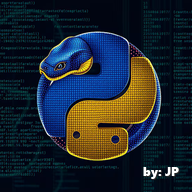
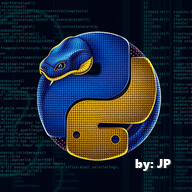
Move watermark further inside the iOS safe zone
The 'by: JP' text at 7% edge inset was getting clipped by iOS's
~22% corner mask at the smaller home-screen render sizes. Bump
inset to 11% so the watermark stays fully visible on all variants.

Changed region(s): [[0.6875, 0.8125, 0.9375, 0.9375]]

diff --git a/scripts/generate_pwa_icons.py b/scripts/generate_pwa_icons.py
@@ -63,9 +63,11 @@ def _add_watermark(img: Image.Image) -> None:
     tw = bbox[2] - bbox[0]
     th = bbox[3] - bbox[1]
 
-    # Inset from edge — leaves enough room that iOS's ~22%-radius corner
-    # mask doesn't clip the text.
-    pad = int(size * 0.07)
+    # Inset from edge — iOS rounds its app-icon mask at ~22% radius, so
+    # text at 7% inset was getting clipped at the bottom-right corner.
+    # 11% keeps the whole "by: JP" inside the safe zone at every render
+    # size, including the 60px home-screen render on iPhone.
+    pad = int(size * 0.11)
     x = size - tw - pad - bbox[0]
     y = size - th - pad - bbox[1]
 
